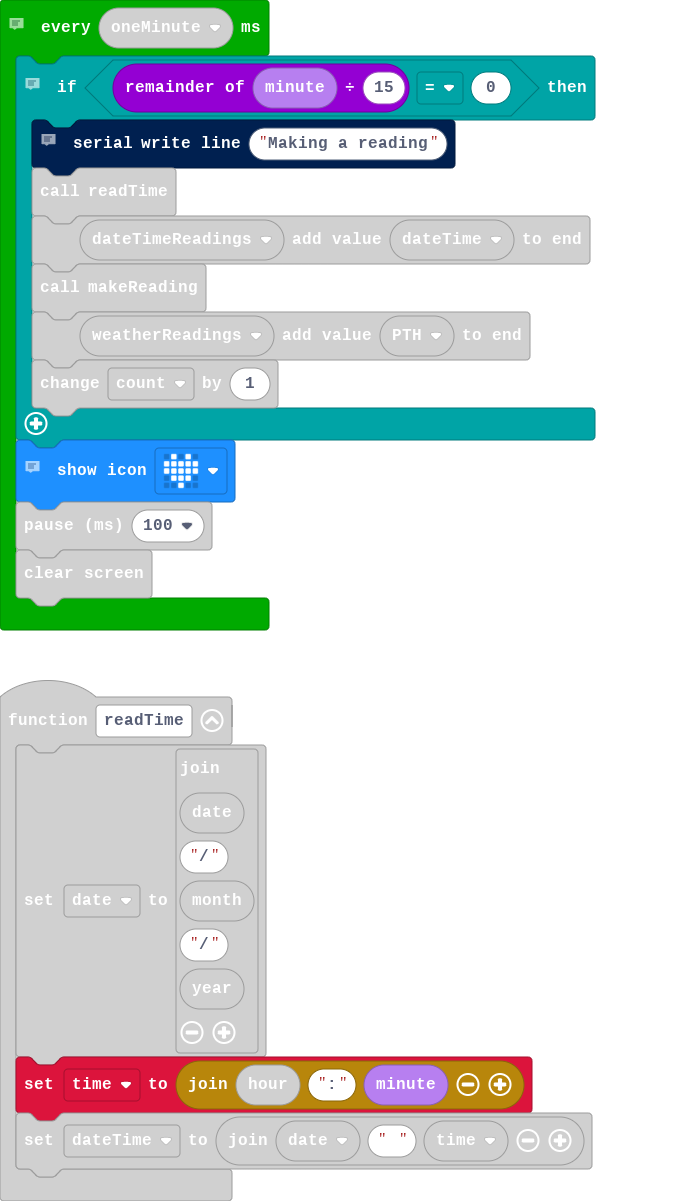
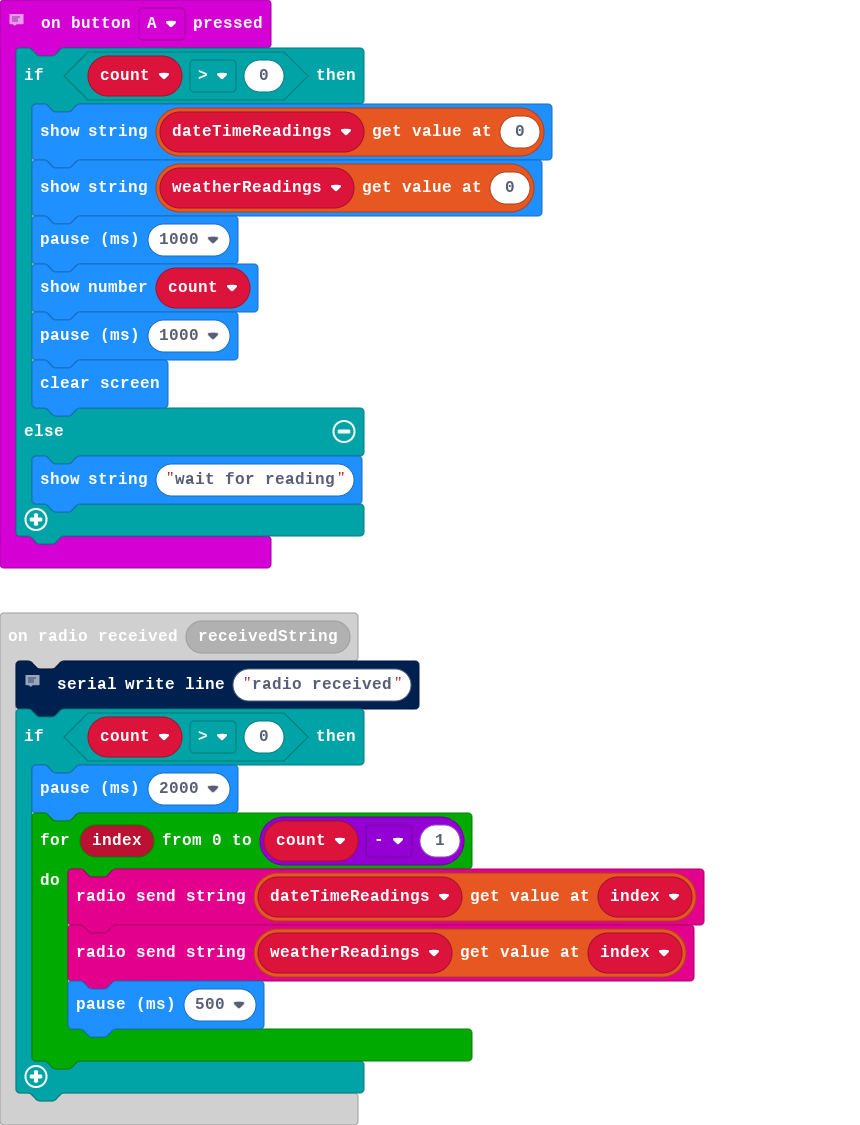
prevent undef by stopping results view if count=0

diff --git a/main.ts b/main.ts
@@ -11,12 +11,16 @@ function makeReading () {
 }
 // Test block
 input.onButtonPressed(Button.A, function () {
-    basic.showString("" + (dateTimeReadings[0]))
-    basic.showString("" + (weatherReadings[0]))
-    basic.pause(1000)
-    basic.showNumber(count)
-    basic.pause(1000)
-    basic.clearScreen()
+    if (count > 0) {
+        basic.showString("" + (dateTimeReadings[0]))
+        basic.showString("" + (weatherReadings[0]))
+        basic.pause(1000)
+        basic.showNumber(count)
+        basic.pause(1000)
+        basic.clearScreen()
+    } else {
+        basic.showString("wait for reading")
+    }
 })
 function setDate () {
     // the first 2 characters after command
@@ -68,11 +72,13 @@ function setTime () {
 radio.onReceivedString(function (receivedString) {
     // Debug - radio received
     serial.writeLine("radio received")
-    basic.pause(2000)
-    for (let index = 0; index <= count - 1; index++) {
-        radio.sendString("" + (dateTimeReadings[index]))
-        radio.sendString("" + (weatherReadings[index]))
-        basic.pause(500)
+    if (count > 0) {
+        basic.pause(2000)
+        for (let index = 0; index <= count - 1; index++) {
+            radio.sendString("" + (dateTimeReadings[index]))
+            radio.sendString("" + (weatherReadings[index]))
+            basic.pause(500)
+        }
     }
 })
 serial.onDataReceived(serial.delimiters(Delimiters.CarriageReturn), function () {
